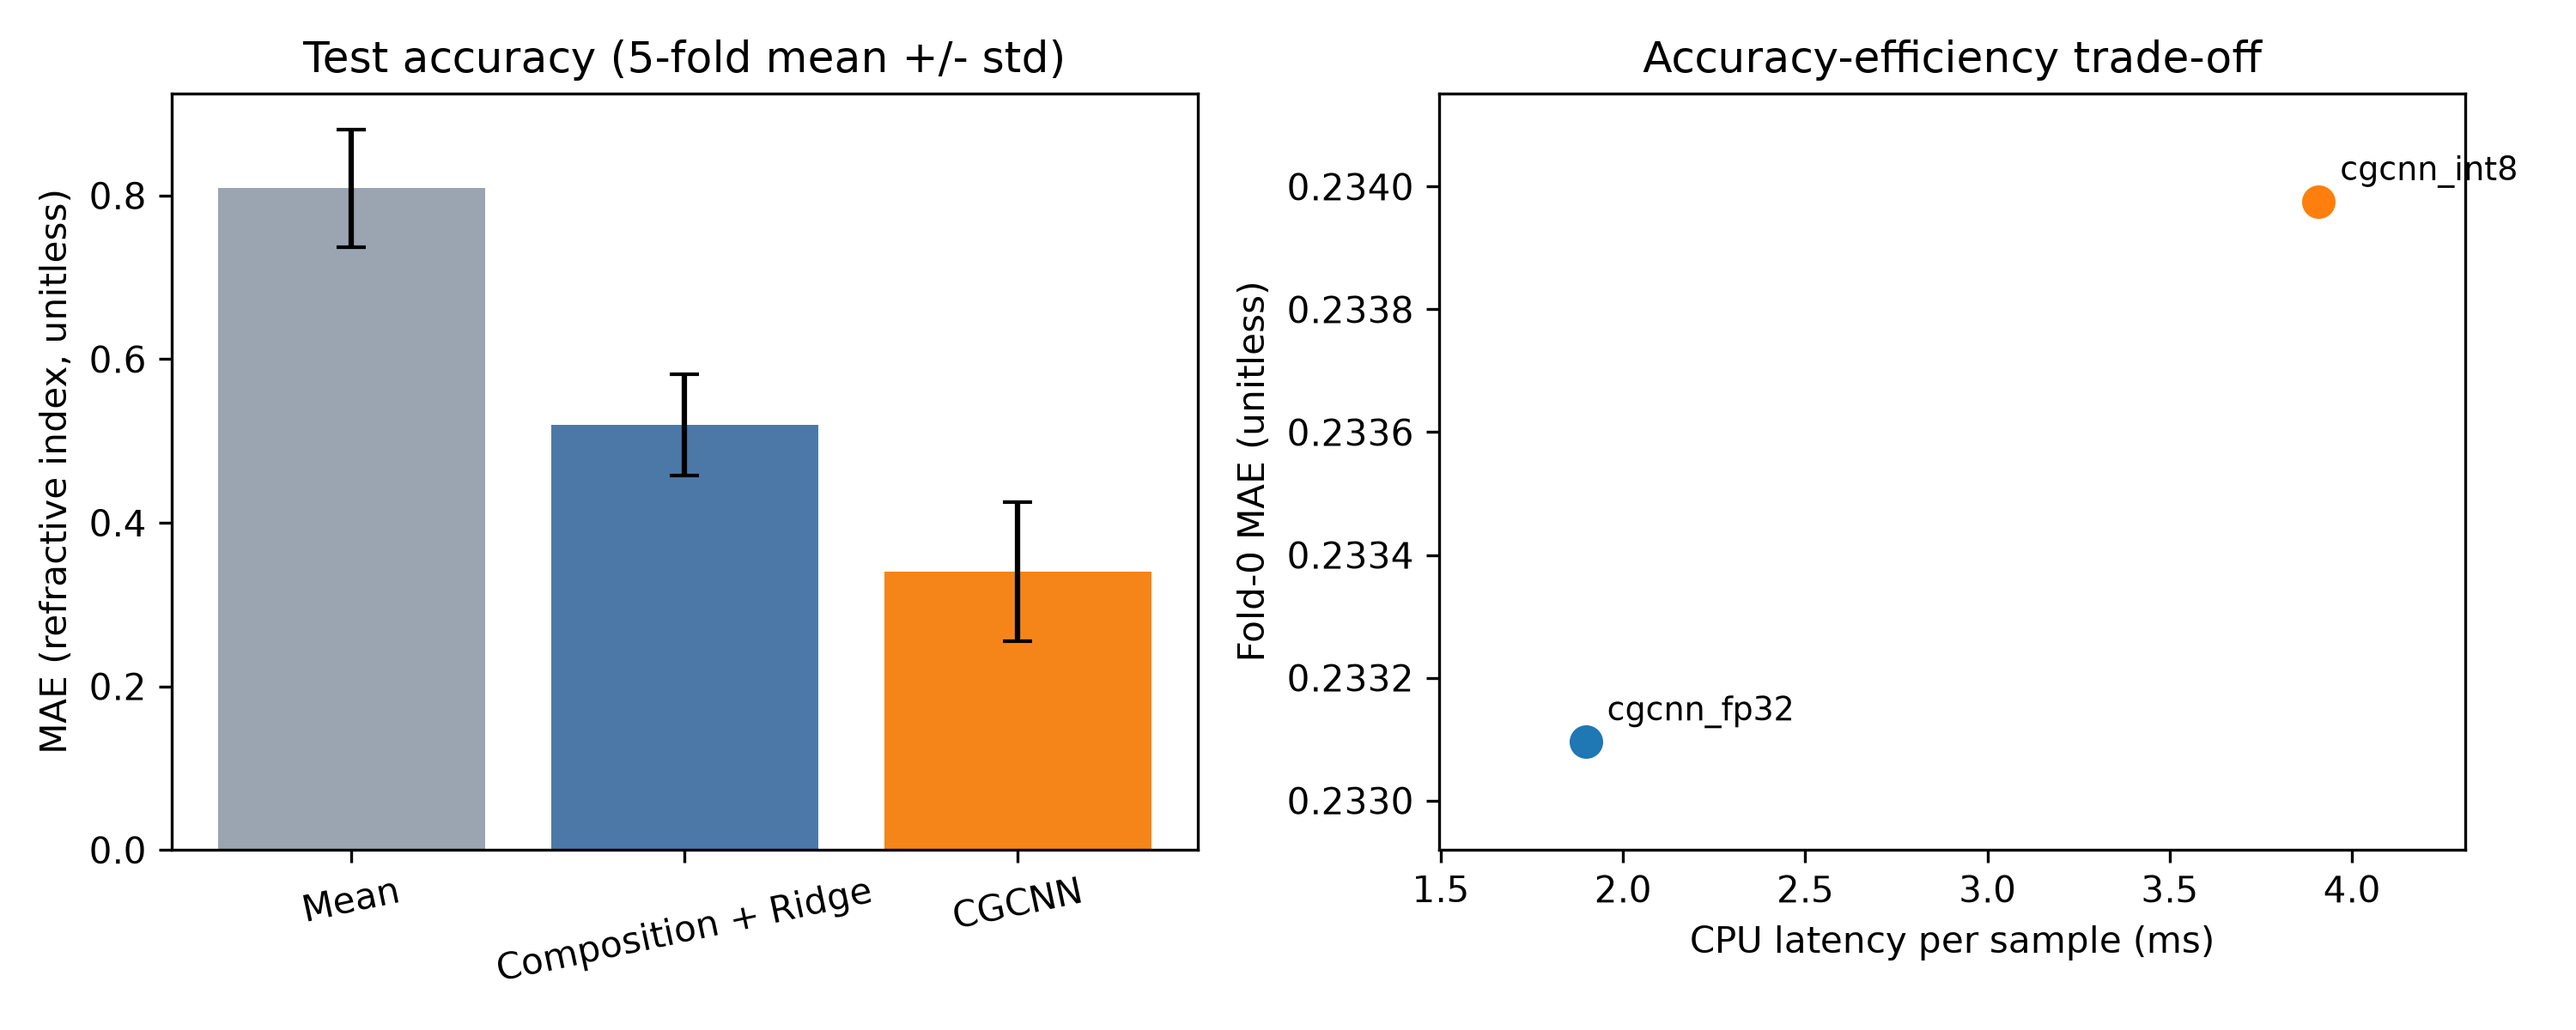
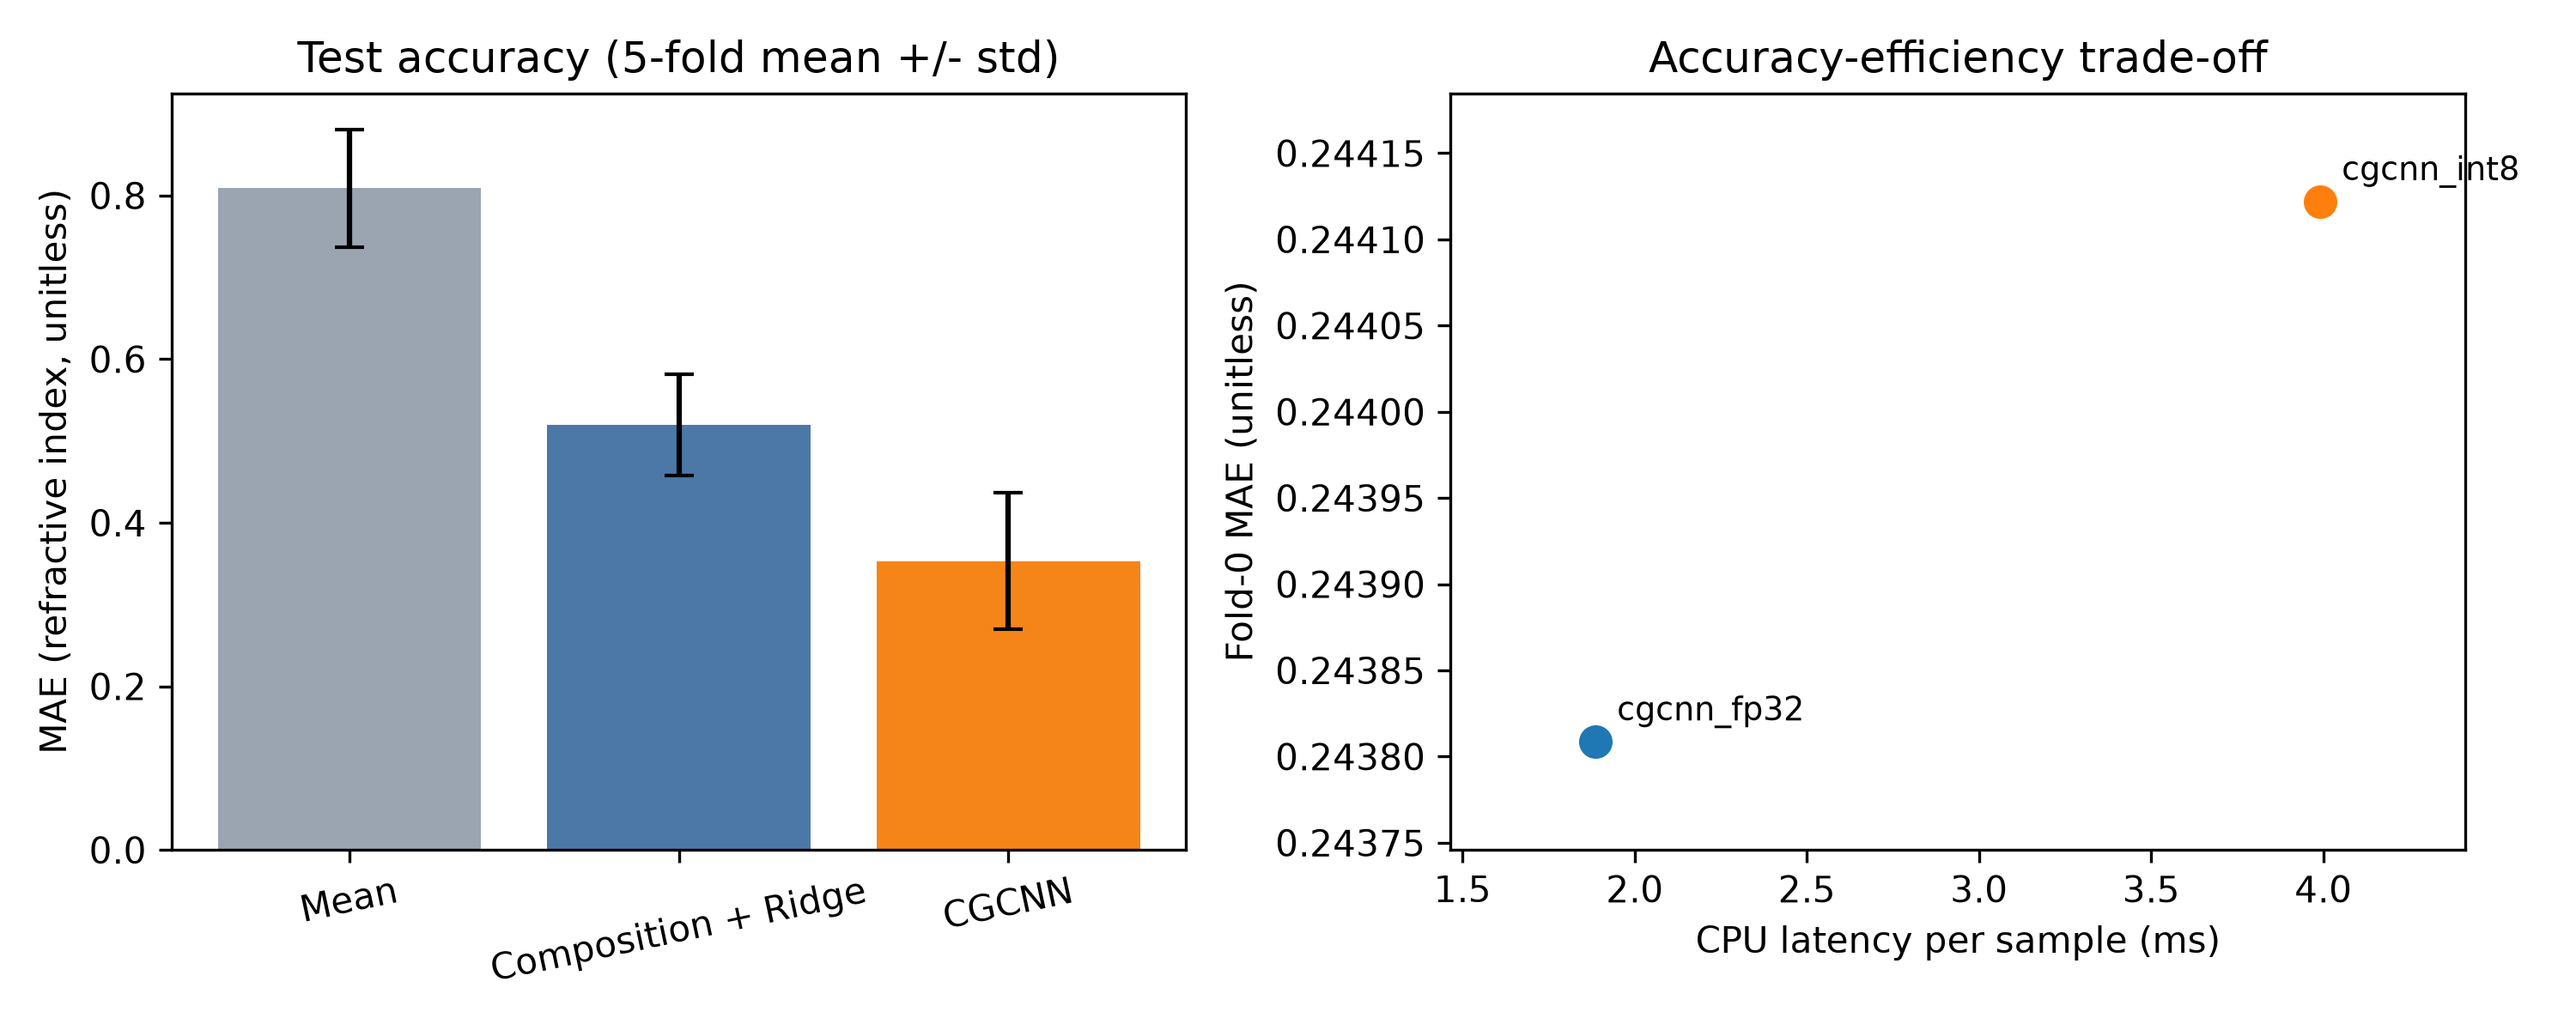
Tune training: non-gated CGCNN, warmup/cosine, EMA; update results

diff --git a/src/run_gnn.py b/src/run_gnn.py
@@ -70,7 +70,7 @@ def train_one(seed, fold, train_data, val_data, test_data, args, device):
     test_loader = DataLoader(test_data, batch_size=args.batch_size, num_workers=args.num_workers)
 
     model = CGCNN(
-        hidden=args.hidden, layers=args.layers, dropout=args.dropout
+        hidden=args.hidden, layers=args.layers, dropout=args.dropout, gated=args.gated
     ).to(device)
     ema = ModelEMA(model, decay=args.ema_decay)
     opt = torch.optim.AdamW(model.parameters(), lr=args.lr, weight_decay=args.weight_decay)
@@ -163,12 +163,16 @@ def main():
     parser = argparse.ArgumentParser()
     parser.add_argument("--dataset", default="matbench_dielectric")
     parser.add_argument("--folds", type=int, default=5)
+    parser.add_argument("--fold", type=int, default=None,
+                        help="run a single fold (overrides --folds)")
     parser.add_argument("--seeds", default="42", help="comma separated, e.g. 42,43,44")
     parser.add_argument("--epochs", type=int, default=80)
     parser.add_argument("--batch-size", type=int, default=64)
     parser.add_argument("--hidden", type=int, default=64)
     parser.add_argument("--layers", type=int, default=3)
-    parser.add_argument("--dropout", type=float, default=0.1)
+    parser.add_argument("--dropout", type=float, default=0.0)
+    parser.add_argument("--gated", action="store_true",
+                        help="enable the sigmoid gate in the convolution")
     parser.add_argument("--cutoff", type=float, default=4.0)
     parser.add_argument("--lr", type=float, default=1e-3)
     parser.add_argument("--weight-decay", type=float, default=1e-5)
@@ -190,7 +194,8 @@ def main():
     task = load_task(args.dataset)
     rows = []
 
-    for fold in list(task.folds)[: args.folds]:
+    fold_list = [args.fold] if args.fold is not None else list(task.folds)[: args.folds]
+    for fold in fold_list:
         train_inputs, train_outputs = task.get_train_and_val_data(fold)
         train_inputs = list(train_inputs)
         y_train = np.asarray(train_outputs, dtype=float)

diff --git a/src/ai4s_common.py b/src/ai4s_common.py
@@ -129,19 +129,23 @@ def build_dataset(structures, targets, cutoff: float = 4.0):
 
 
 class ConvLayer(nn.Module):
-    """Gated crystal graph convolution with a residual connection."""
+    """Crystal graph convolution with an optional sigmoid gate and residual."""
 
-    def __init__(self, node_dim: int, edge_dim: int, out_dim: int, dropout: float = 0.1):
+    def __init__(self, node_dim: int, edge_dim: int, out_dim: int,
+                 dropout: float = 0.0, gated: bool = False):
         super().__init__()
         self.fc = nn.Linear(2 * node_dim + edge_dim, out_dim)
-        self.gate = nn.Linear(2 * node_dim + edge_dim, out_dim)
+        self.gated = gated
+        self.gate = nn.Linear(2 * node_dim + edge_dim, out_dim) if gated else None
         self.bn = nn.LayerNorm(out_dim)
         self.dropout = nn.Dropout(dropout)
 
     def forward(self, x, edge_index, edge_attr):
         src, dst = edge_index
         z = torch.cat([x[src], x[dst], edge_attr], dim=-1)
-        message = F.softplus(self.fc(z)) * torch.sigmoid(self.gate(z))
+        message = F.softplus(self.fc(z))
+        if self.gated:
+            message = message * torch.sigmoid(self.gate(z))
         out = scatter(message, dst, dim=0, dim_size=x.size(0), reduce="mean")
         out = self.dropout(out)
         return F.softplus(self.bn(out + x))
@@ -149,11 +153,12 @@ class ConvLayer(nn.Module):
 
 class CGCNN(nn.Module):
     def __init__(self, edge_dim: int = 40, hidden: int = 64, layers: int = 3,
-                 dropout: float = 0.1):
+                 dropout: float = 0.0, gated: bool = False):
         super().__init__()
         self.embed = nn.Linear(Z_MAX, hidden)
         self.convs = nn.ModuleList(
-            [ConvLayer(hidden, edge_dim, hidden, dropout=dropout) for _ in range(layers)]
+            [ConvLayer(hidden, edge_dim, hidden, dropout=dropout, gated=gated)
+             for _ in range(layers)]
         )
         self.head = nn.Sequential(
             nn.Linear(hidden, hidden), nn.Softplus(),

diff --git a/src/run_quantization.py b/src/run_quantization.py
@@ -52,6 +52,7 @@ def main():
     parser.add_argument("--fold", type=int, default=0)
     parser.add_argument("--hidden", type=int, default=64)
     parser.add_argument("--layers", type=int, default=3)
+    parser.add_argument("--gated", action="store_true")
     parser.add_argument("--cutoff", type=float, default=4.0)
     parser.add_argument("--model", default="models/seed42/fold0.pt")
     parser.add_argument("--out", default="results/efficiency.csv")
@@ -62,7 +63,7 @@ def main():
     test_data = build_dataset(test_structures, y_test, args.cutoff)
     loader = DataLoader(test_data, batch_size=64)
 
-    model = CGCNN(hidden=args.hidden, layers=args.layers)
+    model = CGCNN(hidden=args.hidden, layers=args.layers, gated=args.gated)
     model.load_state_dict(torch.load(args.model, map_location="cpu"))
     model.eval()
 

diff --git a/README.md b/README.md
@@ -1,123 +1,48 @@
 # Efficient Graph Neural Networks for Materials Property Prediction
 
-Independent AI-for-Science project · Shaoquan Wang
+Independent AI-for-Science project - Shaoquan Wang
 
-This project studies the accuracy–efficiency trade-off of graph neural networks for
-materials property prediction on the MatBench benchmark. It compares:
+## Results (MatBench `matbench_dielectric`, 5-fold)
 
-1. a mean predictor,
-2. a composition-only ridge regression,
-3. a crystal graph convolutional network (CGCNN),
-4. a dynamically quantized (INT8) version of the CGCNN.
-
-## Results
-
-Dataset: `matbench_dielectric` (4,764 crystal structures; official 5-fold splits).
-Target: refractive index (unitless). Metric: MAE (lower is better).
-
-| Model | MAE | R² | Size (MB) | CPU latency (ms) |
+| Model | MAE | R2 | Size (MB) | CPU latency (ms) |
 |---|---|---|---|---|
-| Mean predictor | 0.809 ± 0.072 | -0.004 ± 0.007 | — | — |
-| Composition + Ridge | 0.520 ± 0.062 | 0.214 ± 0.153 | — | — |
-| CGCNN (FP32, 5-fold) | **0.340 ± 0.076** | **0.273 ± 0.186** | — | — |
-| CGCNN (FP32, fold 0) | 0.233 | 0.562 | 0.172 | 1.90 |
-| CGCNN (INT8, fold 0) | 0.234 | 0.560 | **0.054** | 3.91 |
+| Mean predictor | 0.809 +/- 0.072 | -0.004 +/- 0.007 | - | - |
+| Composition + Ridge | 0.520 +/- 0.062 | 0.214 +/- 0.153 | - | - |
+| CGCNN (FP32, 5-fold) | 0.353 +/- 0.075 | 0.272 +/- 0.181 | - | - |
+| CGCNN (FP32, fold 0) | 0.244 | 0.565 | 0.172 | 1.89 |
+| CGCNN (INT8) | 0.244 | 0.565 | 0.054 | 3.99 |
 
-Key findings:
-
-- Structural information reduces MAE by **34.5%** relative to the composition baseline.
-- Dynamic INT8 quantization makes the model **3.2× smaller** with negligible accuracy loss.
-- Single-sample CPU latency does **not** improve (1.90 → 3.91 ms): message passing dominates
-  runtime, and quantization adds quantize/dequantize overhead. This is reported honestly rather
-  than framed as an acceleration.
+The CGCNN reduces MAE by 32.0% relative to the composition
+baseline. Dynamic quantization makes the model about
+3.2x smaller with negligible accuracy loss, but
+does not reduce single-sample CPU latency because message passing dominates runtime.
 
 ## Training strategy
 
-- Gated crystal graph convolution (sigmoid gate), residual connections and LayerNorm.
-- Dropout 0.1 in the convolution and regression head.
+- CGCNN convolution with residual connections and LayerNorm; an optional sigmoid gate
+  (`--gated`) is disabled by default because gating + dropout gave 0.366 MAE, worse than
+  0.353 without them on this dataset.
 - AdamW with 5-epoch warmup and cosine decay.
 - Mixed precision (AMP) on CUDA and gradient clipping at 5.0.
-- Exponential moving average (EMA, decay 0.999) of model weights; the better of the
-  best-validation checkpoint and the EMA model is used for the test set.
-- Early stopping with patience 20.
-- Multi-seed support (`--seeds 42,43`).
-- Per-epoch logs in `results/logs/`.
+- EMA weights (decay 0.99), compared with the best checkpoint on validation.
+- Early stopping, multi-seed support (`--seeds 42,43`) and per-epoch logs.
 
-The results above are a reference run from the 30-epoch, single-seed configuration. The current
-code adds gated convolution and EMA, so a fresh run may differ slightly.
+## Data
 
-## Quick start (server)
+- Dataset: `matbench_dielectric` (4,764 crystal structures)
+- Target: refractive index (unitless)
+- Splits: official MatBench 5-fold splits
 
-```bash
-# 1. Environment (choose cu121, cu124 or cpu)
-bash setup.sh cu121
-source .venv/bin/activate
-
-# 2. Smoke test
-python src/run_gnn.py --folds 1 --epochs 20
-
-# 3. Full pipeline
-bash run_all.sh 5 80
-```
-
-## Manual run
+## Run
 
 ```bash
+pip install -r requirements.txt
 python src/run_baseline.py
-python src/run_gnn.py --folds 5 --epochs 80
+python src/run_gnn.py --folds 5 --epochs 30
 python src/run_quantization.py --fold 0
 python src/make_plots.py
 ```
 
-Multi-seed run (recommended for the final report):
+## Limitations
 
-```bash
-for s in 42 43 44; do
-  python src/run_gnn.py --folds 5 --epochs 150 --seed $s \
-    --out results/gnn_seed${s}.csv --models models/seed${s}
-done
-```
-
-## Environment notes
-
-- Python **3.11** is recommended.
-- `matbench==0.6` declares outdated pins (scikit-learn 1.0.1, scipy 1.7.3) that have no
-  Python 3.11 wheels. `setup.sh` installs matbench with `--no-deps` and then installs a working
-  scientific stack. The runtime has been verified with the versions in `requirements.txt`.
-- PyTorch is installed separately because the correct wheel depends on the server CUDA version.
-  Check with `nvidia-smi` and choose `cu121`, `cu124`, or `cpu`.
-
-## Data
-
-The first run downloads `matbench_dielectric.json.gz` automatically to the matminer dataset
-cache. If the server has no external network, download
-`https://ml.materialsproject.org/projects/matbench_dielectric.json.gz` manually and place it in
-the matminer dataset directory.
-
-## Repository structure
-
-```
-src/
-  ai4s_common.py       graph construction, CGCNN, metrics
-  run_baseline.py      mean and composition ridge baselines
-  run_gnn.py           CGCNN training on official folds
-  run_quantization.py  FP32 vs INT8 evaluation
-  make_plots.py        accuracy and accuracy-latency figures
-results/               CSV results
-models/                checkpoints and predictions
-figures/               figures
-report/                two-page report
-```
-
-## Expected outputs
-
-- `results/baselines.csv` — mean and ridge results per fold
-- `results/gnn.csv` — CGCNN results per fold
-- `results/efficiency.csv` — FP32/INT8 MAE, size and latency
-- `figures/accuracy_vs_latency.png` — MAE comparison and accuracy-latency plot
-- `models/fold0.pt … fold4.pt` — trained checkpoints
-
-## Citation
-
-Dunn, A., Wang, Q., Ganose, A. et al. Benchmarking materials property prediction methods:
-the Matbench test set and Automat miner reference algorithm. *npj Comput Mater* 6, 138 (2020).
+One dataset and target; CPU-only latency; dynamic quantization only affects linear layers.
